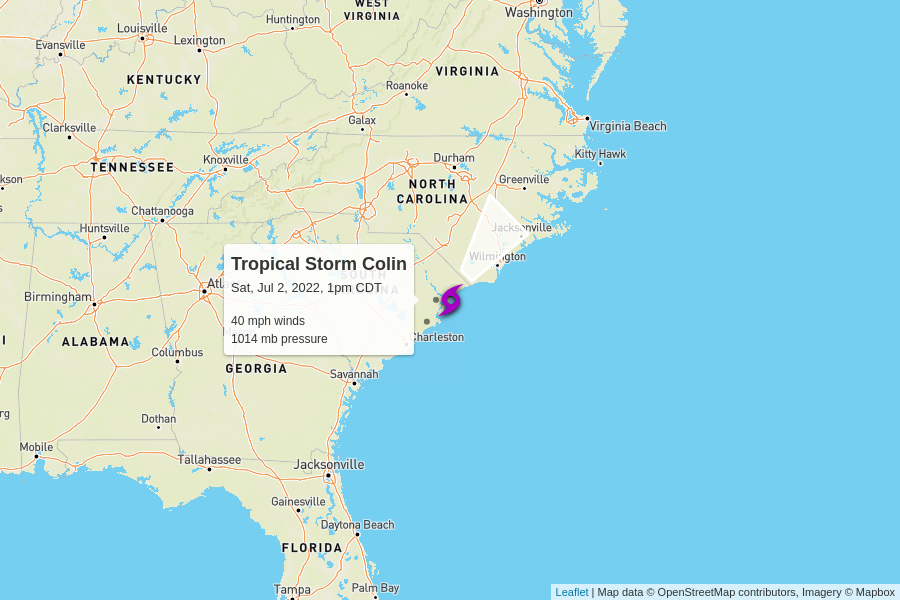
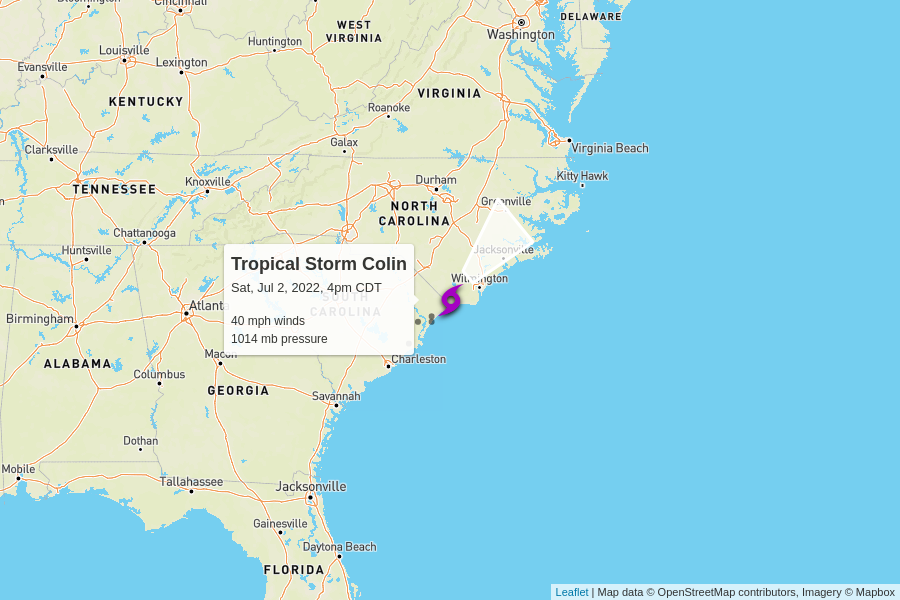
automatic update

Changed region(s): [[0.0, 0.0, 0.7467, 1.0], [0.0, 0.0, 0.0311, 0.03]]

diff --git a/docs/index.html b/docs/index.html
@@ -100,7 +100,7 @@
         <td colspan="6" class="storm category-0" >
           <h2>
             Tropical Storm Colin
-            <p class="updated">last updated <span data-time>2022-07-02T18:00:00.000Z</span></p>
+            <p class="updated">last updated <span data-time>2022-07-02T21:00:00.000Z</span></p>
           </h2>
         </td>
       </tr>
@@ -120,7 +120,7 @@
         <td>
           7 mph to the northeast
           <br/>
-          <span style="display: inline-block; font-size: 1.5em; transform: rotate(40deg);">↑</span>
+          <span style="display: inline-block; font-size: 1.5em; transform: rotate(45deg);">↑</span>
         </td>
         <td><a href="https://raw.githubusercontent.com/mgwalker/atlantic-hurricanes/main/data/csv/AL032022.csv">AL032022.csv</a></td>
         <td><a href="https://www.nhc.noaa.gov/archive/2022/COLIN.shtml?">NHC advisories</a></td>
